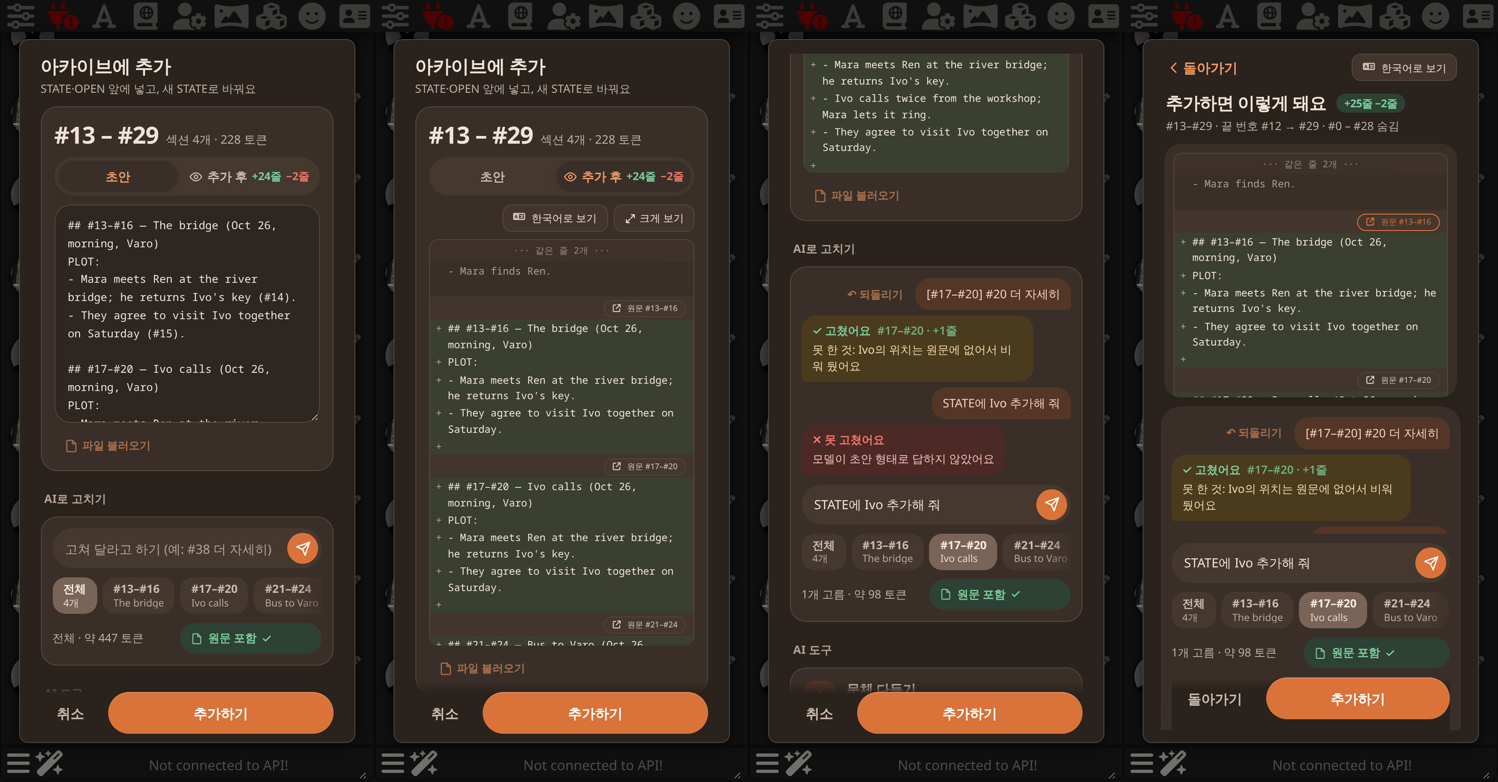
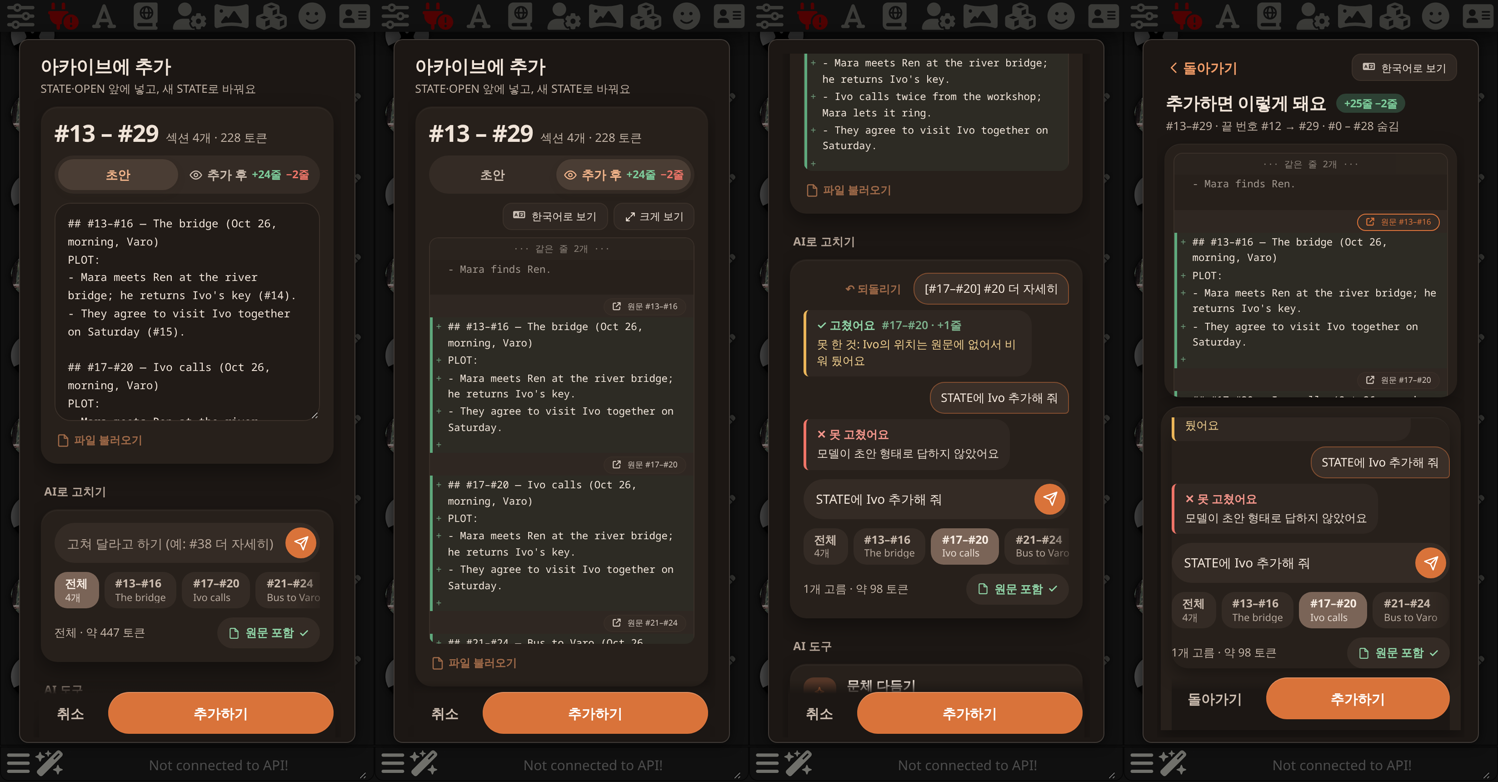
3.159.0: dark popups: near-black window, darker cards without outlines, colour only in thin lines and text (chat bubbles, preview and compare rows) instead of murky tinted fills; 아카이브에 추가 first, then every popup through the tokens
Claude-Session: https://claude.ai/code/session_01TBUyc5NesEMBcPKHWzpL6W

diff --git a/style.css b/style.css
@@ -540,6 +540,11 @@ input.na_toggle:disabled + .na_tgl_ui { opacity: 0.45; cursor: not-allowed; }
 .na_diff_del { background: color-mix(in srgb, #c4513f 15%, transparent); }
 .na_diff_same { opacity: 0.6; }
 .na_diff .na_diff_skip { justify-content: center; padding: 4px; font-size: 0.9em; opacity: 0.5; background: var(--na-softer); }
+/* dark: no murky tinted bands — a faint tint, a coloured bar on the left, and the + / − marks in colour */
+body.na_darkui .na_diff_add { background: rgba(124, 203, 154, 0.07); box-shadow: inset 3px 0 0 #5FA77C; }
+body.na_darkui .na_diff_del { background: rgba(236, 116, 104, 0.07); box-shadow: inset 3px 0 0 #C9655A; }
+body.na_darkui .na_diff_add > span:first-child { color: #8FD3A6; }
+body.na_darkui .na_diff_del > span:first-child { color: #F2948A; }
 
 /* ---------- chat picker */
 .na_pick_list { display: flex; flex-direction: column; }
@@ -871,6 +876,8 @@ input.na_toggle:disabled + .na_tgl_ui { opacity: 0.45; cursor: not-allowed; }
 .na_diff_hl { background: transparent; color: inherit; font-weight: 600; border-radius: 3px; padding: 0 1px; }
 .na_diff_add .na_diff_hl, .na_diff_tr_add .na_diff_hl { background: color-mix(in srgb, #3f9a5a 16%, transparent); }
 .na_diff_del .na_diff_hl, .na_diff_tr_del .na_diff_hl { background: color-mix(in srgb, #c4513f 15%, transparent); text-decoration: line-through; text-decoration-thickness: 1px; }
+body.na_darkui :is(.na_diff_add, .na_diff_tr_add) .na_diff_hl { background: rgba(124, 203, 154, 0.22); color: #DDF3E4; }
+body.na_darkui :is(.na_diff_del, .na_diff_tr_del) .na_diff_hl { background: rgba(236, 116, 104, 0.22); color: #F8D9D4; }
 .na_diff .na_dl { flex: 1; min-width: 0; }
 
 /* ---------- source jump */
@@ -2445,7 +2452,6 @@ body.na_darkui .na_ap2 .na_append_ta { background: #2E2621 !important; border: 1
 .na_ap3_part > .na_v2_card { margin-top: 10px; }
 /* cards in the palette's colour (--na-card), no outline, a soft two-layer shadow */
 body:not(.na_darkui) .na_ap3 .na_v2_card { border-color: transparent; box-shadow: 0 1px 2px rgba(70, 52, 40, 0.05), 0 6px 16px rgba(70, 52, 40, 0.07); }
-body.na_darkui .na_ap3 .na_v2_card { border-color: transparent; box-shadow: 0 1px 2px rgba(0, 0, 0, 0.2), 0 6px 16px rgba(0, 0, 0, 0.22); }
 .na_ap3 .na_ap3_file.na_append_file_btn { background: transparent; border: 0; padding: 2px; }
 /* light: as the settings panel — the window stays cream, the cards a touch warmer than its white paper (#FCF6F1), the selected switch white */
 body:not(.na_darkui) .na_ap3 .na_v2_card { background: #FCF6F1; }
@@ -2484,15 +2490,10 @@ body:is(.na_darkui, :not(.na_darkui)) .na_ap3 .na_append_ta { height: 240px !imp
 .na_ap3_ai b span { margin-left: 4px; font-weight: 600; opacity: 0.8; }
 .na_ap3_ai div { margin-top: 3px; }
 body:not(.na_darkui) .na_ap3_me > span { background: #F6E1D3; color: #7A3410; }
-body.na_darkui .na_ap3_me > span { background: #543627; color: #F4D2BC; }
 body:not(.na_darkui) .na_ap3_ai { background: #E8F3EA; color: #24452C; }
-body.na_darkui .na_ap3_ai { background: #2D4134; color: #CFEAD7; }
 body:not(.na_darkui) .na_ap3_ai.note { background: #FFF4DC; color: #7A5200; }
-body.na_darkui .na_ap3_ai.note { background: #4A3B1F; color: #F2D9A6; }
 body:not(.na_darkui) .na_ap3_ai.note b { color: #1F6A40; }
-body.na_darkui .na_ap3_ai.note b { color: #7CCB9A; }
 body:not(.na_darkui) .na_ap3_ai.bad { background: #FBE7E2; color: #7A2A1E; }
-body.na_darkui .na_ap3_ai.bad { background: #4B2925; color: #F3C2BB; }
 .na_ap3_ai.bad b { color: var(--na-bad); }
 .na_ap3_ai.none { background: var(--na-card2) !important; color: var(--na-mute) !important; }
 /* the input: no outline, the chips' colour */
@@ -2505,7 +2506,6 @@ body:is(.na_darkui, :not(.na_darkui)) .na_ap3 .na_ap3_chip { flex: none; display
 .na_ap3 .na_ap3_chip b { font-size: 12.5px; font-weight: 700; line-height: 1.15; white-space: nowrap; }
 .na_ap3 .na_ap3_chip small { max-width: 100%; margin: 0; font-size: 11px; line-height: 1.2; opacity: 0.85; white-space: nowrap; overflow: hidden; text-overflow: ellipsis; color: inherit; }
 body:is(.na_darkui, :not(.na_darkui)) .na_ap3 .na_ap3_chip.on { background: var(--na-fill); color: var(--na-onfill); }
-body.na_darkui .na_ap3 .na_ap3_chip.on { background: #7A6457 !important; }
 .na_ap3 .na_apf_foot { display: flex; align-items: center; gap: 8px; font-size: 12.5px; }
 .na_ap3 .na_apf_foot small { flex: 1; min-width: 0; font-size: 12.5px; color: var(--na-sub, var(--na-dim)); }
 .na_ap3_raw { display: inline-flex !important; align-items: center; gap: 6px; margin: 0; height: 34px; padding: 0 12px; border-radius: 999px; font-size: 12.5px; font-weight: 600; cursor: pointer; white-space: nowrap; background: var(--na-card2); color: var(--na-mute); }
@@ -2514,7 +2514,6 @@ body.na_darkui .na_ap3 .na_ap3_chip.on { background: #7A6457 !important; }
 .na_ap3_raw .na_ap3_tick { display: none; }
 .na_ap3_raw:has(input:checked) .na_ap3_tick { display: inline-flex; }
 body:not(.na_darkui) .na_ap3_raw:has(input:checked) { background: #E3F2E8; color: #1F6A40; }
-body.na_darkui .na_ap3_raw:has(input:checked) { background: #2D4134; color: #7CCB9A; }
 .na_ap3_raw:has(input:focus-visible) { outline: 2px solid var(--na-accent); outline-offset: 2px; }
 /* AI 도구 */
 .na_ap3_tools { padding: 0; overflow: hidden; }
@@ -2531,12 +2530,30 @@ body.na_darkui .na_ap3_ti.b { background: #2E3A4B; color: #9DBCE6; }
 .na_ap3_tt small { font-size: 12px; color: var(--na-sub, var(--na-dim)); opacity: 1; }
 .na_ap3_ar { color: var(--na-dim); font-size: 18px; }
 .na_ap3 .na_ap2_checks .na_grade_out, .na_ap3 .na_ap2_checks .na_conflict_out { margin: 0 14px 14px; }
+/* dark (시안 A): a near-black warm window, darker cards with a faint top light, no tinted fills — the parts are
+   neutral and the colour is in a thin line or the text: my request edged in orange, replies with a coloured bar */
+body.na_darkui dialog.popup.na_ap3_dlg:has(.na_ap3):not(#na_x) { background: #1C1714 !important; }
+body.na_darkui .na_ap3 .na_v2_card, body.na_darkui .na_ap3 :is(.na_ap3_fbody, .na_ap3_fdock) { background: #27201B; border-color: transparent; box-shadow: inset 0 1px 0 rgba(255, 255, 255, 0.04), 0 8px 20px rgba(0, 0, 0, 0.35); }
+body.na_darkui .na_ap3_bar { background: linear-gradient(rgba(28, 23, 20, 0), #1C1714 14px); }
+body.na_darkui .na_ap3 :is(.na_ly_ask, .na_ap3_seg, .na_ap3_raw) { background: #342B25; }
+body:is(.na_darkui) .na_ap3 .na_ap3_chip { background: #342B25 !important; }
+body.na_darkui .na_ap3 .na_ap3_chip.on { background: #7A6457 !important; color: #F7ECE2 !important; }
+body.na_darkui .na_ap3 .na_ap3_seg button.on { background: #4A3D34; color: #F2B48A; }
+body.na_darkui .na_ap3_raw:has(input:checked) { background: #342B25; color: #8FD3A6; }
+body.na_darkui .na_ap3 .na_append_ta { background: #211B17 !important; border-color: #3A3029 !important; }
+body.na_darkui .na_ap3_me > span { background: #3A2F28; color: #F3E7DC; box-shadow: inset 0 0 0 1px rgba(217, 115, 58, 0.45); }
+body.na_darkui .na_ap3_ai, body.na_darkui .na_ap3_ai.note, body.na_darkui .na_ap3_ai.bad { background: #2F2722; color: #E6D9CD; border-left: 3px solid #7CCB9A; border-radius: 6px 16px 16px 6px; }
+body.na_darkui .na_ap3_ai b { color: #8FD3A6; }
+body.na_darkui .na_ap3_ai.note { border-left-color: #E8B45A; }
+body.na_darkui .na_ap3_ai.note div { color: #F0CF8E; }
+body.na_darkui .na_ap3_ai.bad { border-left-color: #EC7468; }
+body.na_darkui .na_ap3_ai.bad b { color: #F2948A; }
+body.na_darkui .na_ap3_ai.none { border-left-color: #6E5D52; }
 /* a line only between rows: the first row shown sits on the card's own top edge */
 .na_ap3 .na_ap2_checks > .na_check { border-top: 0 !important; }
 .na_ap3 .na_ap2_checks > :not([hidden]) ~ .na_check:not([hidden]) { border-top: 1px solid var(--na-line2, var(--na-line)) !important; }
 /* 취소 · 추가하기 */
 .na_ap3_bar { position: sticky; bottom: 0; z-index: 2; display: flex; gap: 8px; margin: 18px -2px 0; padding: 12px 2px 4px; background: linear-gradient(transparent, var(--na-pop-bg, #F0E4DB) 14px); }
-body.na_darkui .na_ap3_bar { background: linear-gradient(transparent, #2A221D 14px); }
 .na_ap3_bar button { font: inherit; font-size: 15px; font-weight: 600; height: 46px; border-radius: 999px; cursor: pointer; }
 .na_ap3_bar .na_ap3_cancel { padding: 0 18px; border: 0; background: transparent; color: var(--na-mute); }
 .na_ap3_bar .na_ap2_go { flex: 1; border: 0; background: var(--na-accent); color: #fff; box-shadow: inset 0 1px 0 rgba(255, 255, 255, 0.2); }
@@ -2944,11 +2961,11 @@ body.na_darkui .na_df2_counts .del, body.na_darkui .na_df2_badge.del { color: #F
 .na_df2 .na_df2_lines .na_diff_skip { font-size: 0.92em; padding: 6px 14px; }
 .na_df2 .na_df2_lines > .na_diff_tr { padding-top: 0; }
 body:not(.na_darkui) .na_df2 .na_df2_lines .na_diff_del { background: #FDF0EC; }
-body.na_darkui .na_df2 .na_df2_lines .na_diff_del { background: #4A2A26; }
+body.na_darkui .na_df2 .na_df2_lines .na_diff_del { background: rgba(236, 116, 104, 0.07); box-shadow: inset 3px 0 0 #C9655A; }
 body:not(.na_darkui) .na_df2 .na_df2_lines .na_diff_add { background: #EEF7F1; }
-body.na_darkui .na_df2 .na_df2_lines .na_diff_add { background: #2B3A30; }
+body.na_darkui .na_df2 .na_df2_lines .na_diff_add { background: rgba(124, 203, 154, 0.07); box-shadow: inset 3px 0 0 #5FA77C; }
 body:not(.na_darkui) .na_df2 .na_df2_lines .na_diff_add .na_diff_hl { background: #CDE9D7; font-weight: 600; }
-body.na_darkui .na_df2 .na_df2_lines .na_diff_add .na_diff_hl { background: #35503F; font-weight: 600; }
+body.na_darkui .na_df2 .na_df2_lines .na_diff_add .na_diff_hl { background: rgba(124, 203, 154, 0.22); color: #DDF3E4; font-weight: 600; }
 .na_df2_foot { display: flex; gap: 8px; margin-top: auto; }
 .na_df2_foot:empty { display: none; }
 .na_df2_foot > .na_v2_btn { flex: 1; min-width: 0; padding: 12px 0; border-radius: 14px; font-size: 0.964em; }
@@ -7186,3 +7203,18 @@ body:is(.na_darkui, :not(.na_darkui)) dialog.popup:has(.na_popup) .na_popup .ax 
 @keyframes pcf_dim { from { background: rgba(15, 20, 28, 0); } }
 @keyframes pcf_up { from { transform: translateY(110%); } }
 @media (prefers-reduced-motion: reduce) { .pcf, .pcf_box { animation: none; } }
+
+/* ============ dark popups (시안 A, carried over from 아카이브에 추가): a near-black warm window, darker cards with no outline
+   and a faint top light, neutral parts with the colour kept to a thin line or the text. Tokens only, so every popup follows. */
+body.na_darkui dialog.popup:has(.na_popup):not(#na_x) { background: #1C1714 !important; }
+body.na_darkui dialog.popup:has(.na_popup) .na_popup {
+    --na-card: #27201B; --na-card2: #342B25; --na-paper: #27201B; --na-soft: #342B25; --na-softer: #2F2722;
+    --na-line: #3A3029; --na-line2: #312822; --na-fill: #5E4C41;
+}
+body.na_darkui dialog.popup:has(.na_popup) .na_popup .na_v2_card { border-color: transparent; box-shadow: inset 0 1px 0 rgba(255, 255, 255, 0.04), 0 8px 20px rgba(0, 0, 0, 0.35); }
+body.na_darkui dialog.popup:has(.na_popup):not(#na_x) .popup-controls .menu_button { background: #27201B !important; border-color: #3A3029 !important; }
+body.na_darkui dialog.popup:has(.na_popup) .na_popup .text_pole { background-color: #211B17 !important; border-color: #3A3029 !important; }
+/* chats: my line neutral with an orange edge, the answer a plain card */
+body.na_darkui .na_ask2 .na_ask_qq, body.na_darkui .na_sf_bubble { background: #3A2F28; color: #F3E7DC; box-shadow: inset 0 0 0 1px rgba(217, 115, 58, 0.45); }
+body.na_darkui .na_ask2 .na_ask_a { background: #27201B; border-color: transparent; box-shadow: inset 0 1px 0 rgba(255, 255, 255, 0.04); }
+body.na_darkui .na_sf_note { background: #2F2722; color: #F0CF8E; box-shadow: inset 3px 0 0 #E8B45A; }

diff --git a/src/core.js b/src/core.js
@@ -12,7 +12,7 @@ import { parseSections } from './sections.js';
 
 export const MODULE = 'narrative_archive';
 export const PROMPT_KEY = 'narrative_archive_injection';
-export const VERSION = '3.158.8';
+export const VERSION = '3.159.0';
 export const SNAPSHOT_MAX = 5;
 export const SNAPSHOT_MAX_CHARS = 2_000_000;
 

diff --git a/docs/DESIGN.md b/docs/DESIGN.md
@@ -286,6 +286,8 @@
 | `--na-warm` · `--na-cold` (+ `-ink`, `-soft`) | 따뜻함 주황 · 차가움 파랑 | | 관계 온도 같은 양극 그래프 |
 | 패널 바탕 | `#F0E4DB` | `#2A221D` | 패널 · 팝업 바탕(고정) |
 
+**어두운 팝업(3.159, 시안 A):** 팝업 바탕 `#1C1714`, 카드 `#27201B`(테두리 없이 위쪽 빛 + 그림자), 칸 `#342B25`. 색을 깐 칸(탁한 초록 · 노랑)은 쓰지 않고 색은 얇은 선이나 글자로만 넣어요: 내 말풍선은 주황 테두리, 답은 왼쪽 색 띠, 미리보기 더한 줄 · 뺀 줄도 왼쪽 띠 + 아주 옅은 색. 팝업 안에서는 토큰(`--na-card` 등)을 바꿔 두어서 모든 팝업이 따라가요(`style.css` 맨 끝).
+
 **규칙: 밝은 테마 규칙을 새로 쓰면 바로 뒤에 `body.na_darkui` 짝을 같이 써요.** 파일 전체가 이렇게 짝지어져 있어요(`/* dark themes: … Every light-only rule above has a body.na_darkui twin */`). 색은 직접 쓰지 말고 위 토큰을 쓰면 짝이 필요 없어요.
 
 ### 6-3. 테마 충돌 (패널 쪽)
